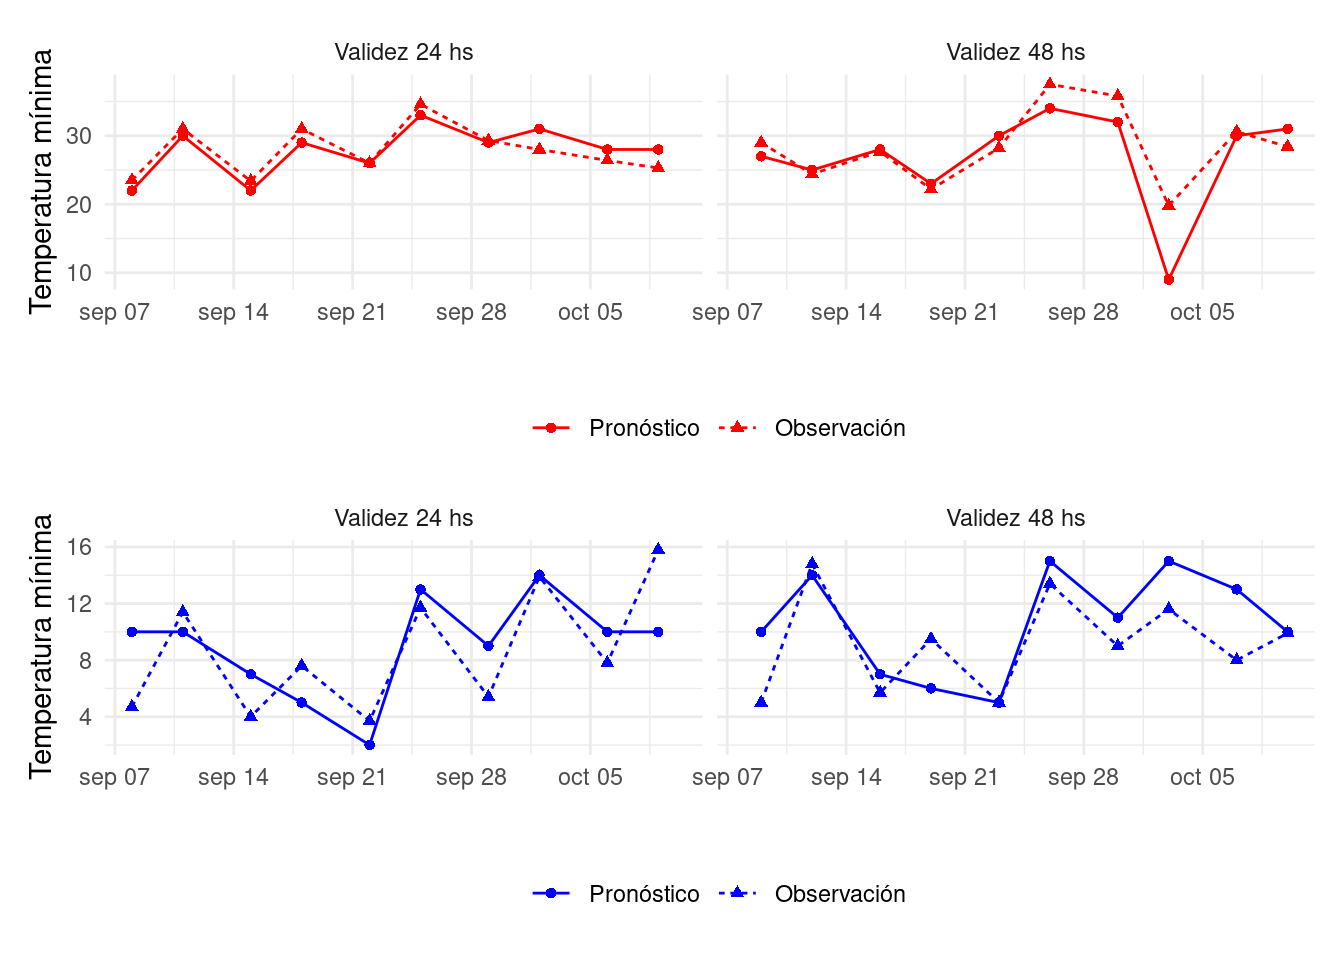
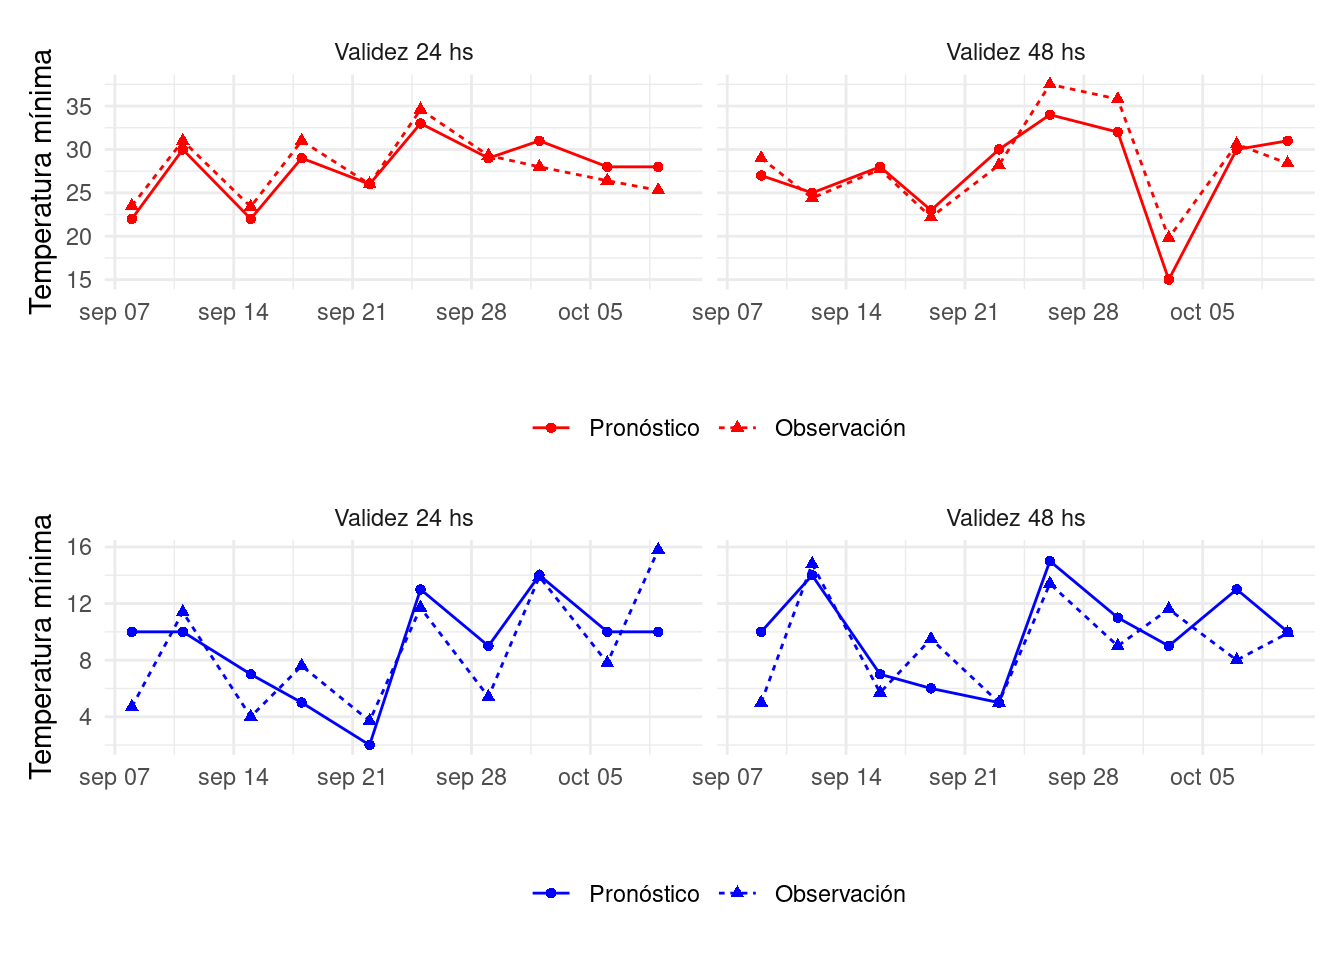
Presentación final con algunos casos

diff --git a/docs/presentacion_final.html b/docs/presentacion_final.html
@@ -4,7 +4,7 @@
     <title>Validación de pronósticos</title>
     <meta charset="utf-8" />
     <meta name="author" content="Pao Corrales" />
-    <meta name="date" content="2020-10-12" />
+    <meta name="date" content="2020-10-18" />
     <link href="site_libs/remark-css-0.0.1/default.css" rel="stylesheet" />
     <link href="site_libs/remark-css-0.0.1/rladies.css" rel="stylesheet" />
     <script src="site_libs/kePrint-0.0.1/kePrint.js"></script>
@@ -20,7 +20,7 @@ class: center, middle, inverse, title-slide
 ## <i class='wi wi-day-sunny'></i>
 ### Pao Corrales
 ### Pronóstico del Tiempo
-### 2020-10-12
+### 2020-10-18
 
 ---
 
@@ -104,7 +104,38 @@ class: inverse, center, middle
 ![](presentacion_final_files/figure-html/unnamed-chunk-4-1.png)&lt;!-- --&gt;
 ]
 
+---
 
+.pull-left[
+
+### Algunos casos
+
+![](presentacion_final_files/figure-html/unnamed-chunk-5-1.png)&lt;!-- --&gt;
+]
+
+.pull-right[
+
+**Pronóstico de mínima a 24 horas**
+
+- Un caso el 22 de septiembre. Temperatura pronósticada 6°C, observada 10°C
+
+*Luego del pasaje de un frente frío esperaba una disminución más marcada de la teperatura y poca o nada nubosidad*
+
+**Pronóstico de mínima a 48 horas**
+
+Dos casos.
+
+- 12 de septiembre. Temperatura pronósticada 10°C, observada 6.4°C
+- 16 de septiembre. Temperatura pronósticada 10°C, observada 7.2°C
+
+*Sobreestimación del modelo y frente frío*
+]
+
+???
+
+En el caso de la temperatura mínima a 24, el caso corresponde al 22 de Septiembre (y no voy a culpar al día de la primavera). Luego del  paso de un frente frío en el día/días previos e inmersos en un anticliclón postfrontal esperaba una disminución mucho más marcada de la temperatura favorecida también por la ausencia de nubes y viento. Sin embargo se observaron cirros y viento sueves a leves del sector norte lo que moderaron la temperatura mínima durante la noche. 
+
+Los casos de temperatura minima a 48 horas correspondes ambos a una sobreestimación de la temperatura. Esto se debe en parte a que tanto el GFS como el WRF sobreestiman la temperatura mínima (al menos en las ciudades donde pronostiqué) y me llevó un tiempo ajustar eso (a veces de más como en el caso anterior). Pero además por ejemplo el caso de 12 de septiembre corresponde al día posterior del pasaje de un frente frío y que si bien tuve en cuenta, no lo suficiente.
 
 ---
 
@@ -146,7 +177,7 @@ class: inverse, center, middle
 
 .pull-left[
 
-![](presentacion_final_files/figure-html/unnamed-chunk-6-1.png)&lt;!-- --&gt;
+![](presentacion_final_files/figure-html/unnamed-chunk-7-1.png)&lt;!-- --&gt;
 ]
 
 --
@@ -175,10 +206,10 @@ class: inverse, center, middle
   &lt;tr&gt;
    &lt;td style="text-align:center;"&gt; 48 &lt;/td&gt;
    &lt;td style="text-align:left;"&gt; Temperatura máxima &lt;/td&gt;
-   &lt;td style="text-align:center;color: blue !important;"&gt; -1.46 &lt;/td&gt;
-   &lt;td style="text-align:center;"&gt; 2.68 &lt;/td&gt;
-   &lt;td style="text-align:center;"&gt; 3.91 &lt;/td&gt;
-   &lt;td style="text-align:center;"&gt; 0.84 &lt;/td&gt;
+   &lt;td style="text-align:center;color: blue !important;"&gt; -0.86 &lt;/td&gt;
+   &lt;td style="text-align:center;"&gt; 2.08 &lt;/td&gt;
+   &lt;td style="text-align:center;"&gt; 2.53 &lt;/td&gt;
+   &lt;td style="text-align:center;"&gt; 0.89 &lt;/td&gt;
   &lt;/tr&gt;
   &lt;tr&gt;
    &lt;td style="text-align:center;"&gt; 24 &lt;/td&gt;
@@ -191,10 +222,10 @@ class: inverse, center, middle
   &lt;tr&gt;
    &lt;td style="text-align:center;"&gt; 48 &lt;/td&gt;
    &lt;td style="text-align:left;"&gt; Temperatura mínima &lt;/td&gt;
-   &lt;td style="text-align:center;color: red !important;"&gt; 1.41 &lt;/td&gt;
-   &lt;td style="text-align:center;"&gt; 2.27 &lt;/td&gt;
-   &lt;td style="text-align:center;"&gt; 2.64 &lt;/td&gt;
-   &lt;td style="text-align:center;"&gt; 0.73 &lt;/td&gt;
+   &lt;td style="text-align:center;color: red !important;"&gt; 0.81 &lt;/td&gt;
+   &lt;td style="text-align:center;"&gt; 2.19 &lt;/td&gt;
+   &lt;td style="text-align:center;"&gt; 2.82 &lt;/td&gt;
+   &lt;td style="text-align:center;"&gt; 0.65 &lt;/td&gt;
   &lt;/tr&gt;
 &lt;/tbody&gt;
 &lt;/table&gt;
@@ -205,14 +236,13 @@ class: inverse, center, middle
 
 .pull-left[
 
-![](presentacion_final_files/figure-html/unnamed-chunk-8-1.png)&lt;!-- --&gt;
+![](presentacion_final_files/figure-html/unnamed-chunk-9-1.png)&lt;!-- --&gt;
 ]
 
 .pull-right[
 
-![](presentacion_final_files/figure-html/unnamed-chunk-9-1.png)&lt;!-- --&gt;
+![](presentacion_final_files/figure-html/unnamed-chunk-10-1.png)&lt;!-- --&gt;
 ]
-
 
 
 ---
@@ -245,6 +275,14 @@ class: inverse, center, middle
 
 ---
 
+### Algunos casos o ¿todos?
+
+* **Temperatura mínima:** fue todo un desafío sin importar el plazo. Todos los modelos tienden a sobrestimar la temperatura y entender los patrones de nubosidad fue complejo.
+
+* **Precipitación:** pocos eventos como para sacar conclusiones, pero... En todos los casos donde los modelos pronosticaron precipitación se sumaron vientos del Este intensos. Si bien se generó precipitación en la región en algunos de estos casos, nunca ocurrieron específicamente en Salta.
+
+---
+
 class: inverse, center, middle
 
 # Ciudad 3: Córdoba
@@ -255,7 +293,7 @@ class: inverse, center, middle
 
 .pull-left[
 
-![](presentacion_final_files/figure-html/unnamed-chunk-11-1.png)&lt;!-- --&gt;
+![](presentacion_final_files/figure-html/unnamed-chunk-12-1.png)&lt;!-- --&gt;
 ]
 
 --
@@ -314,12 +352,12 @@ class: inverse, center, middle
 
 .pull-left[
 
-![](presentacion_final_files/figure-html/unnamed-chunk-13-1.png)&lt;!-- --&gt;
+![](presentacion_final_files/figure-html/unnamed-chunk-14-1.png)&lt;!-- --&gt;
 ]
 
 .pull-right[
 
-![](presentacion_final_files/figure-html/unnamed-chunk-14-1.png)&lt;!-- --&gt;
+![](presentacion_final_files/figure-html/unnamed-chunk-15-1.png)&lt;!-- --&gt;
 ]
 
 
@@ -351,6 +389,14 @@ class: inverse, center, middle
 - TS: 0.5
 
 ]
+
+---
+
+class: inverse, center, middle
+
+![](img/tormentas.png)
+
+# Fin
     </textarea>
 <style data-target="print-only">@media screen {.remark-slide-container{display:block;}.remark-slide-scaler{box-shadow:none;}}</style>
 <script src="https://remarkjs.com/downloads/remark-latest.min.js"></script>

diff --git a/docs/salta-aero-val.html b/docs/salta-aero-val.html
@@ -373,13 +373,13 @@ Temperatura máxima
 Temperatura máxima
 </td>
 <td style="text-align:center;">
--1.46
+-0.86
 </td>
 <td style="text-align:center;">
-2.68
+2.08
 </td>
 <td style="text-align:center;">
-3.91
+2.53
 </td>
 </tr>
 <tr>
@@ -407,13 +407,13 @@ Temperatura mínima
 Temperatura mínima
 </td>
 <td style="text-align:center;">
-1.41
+0.81
 </td>
 <td style="text-align:center;">
-2.27
+2.19
 </td>
 <td style="text-align:center;">
-2.64
+2.82
 </td>
 </tr>
 </tbody>
